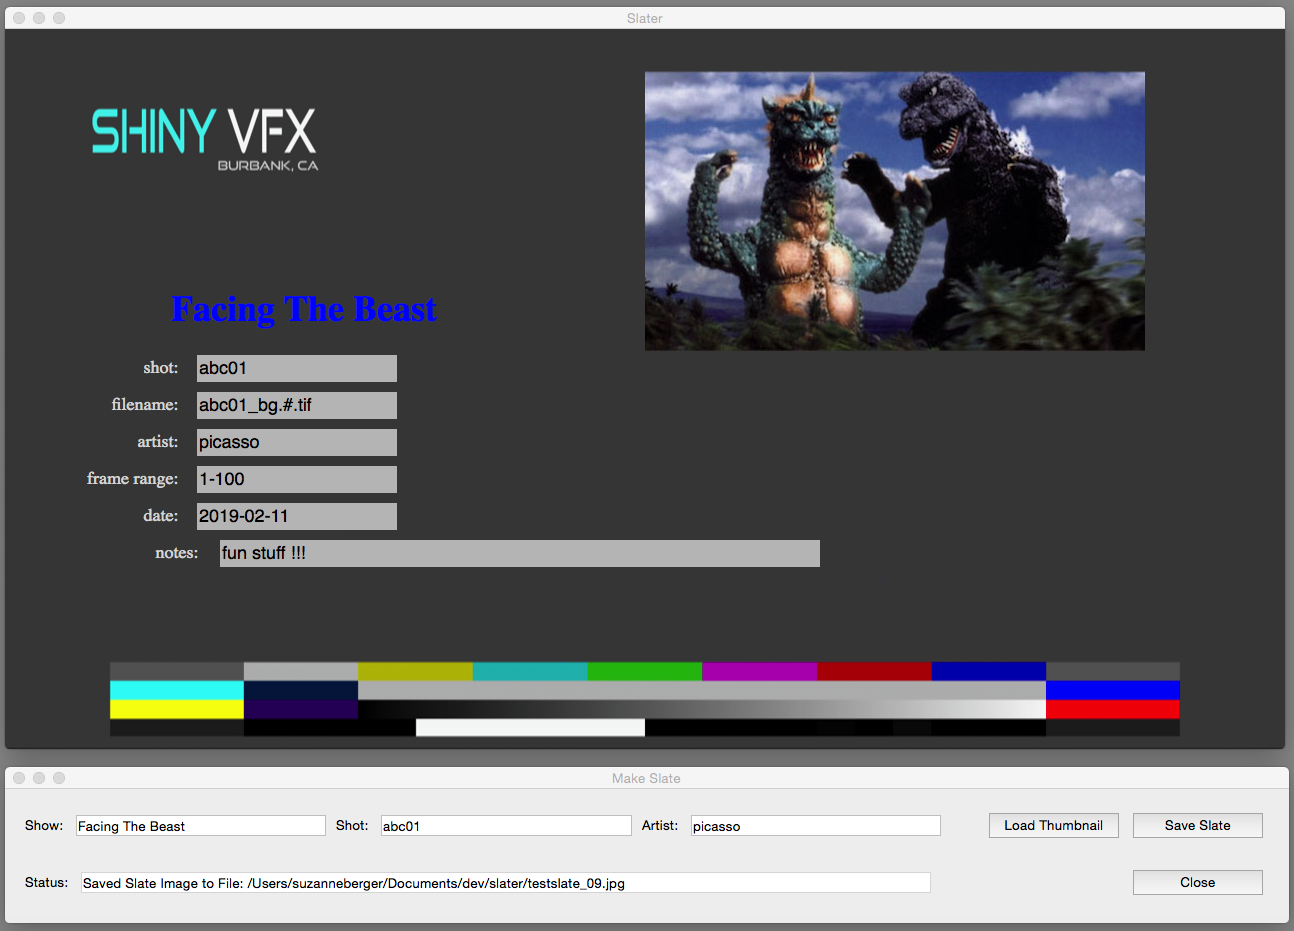
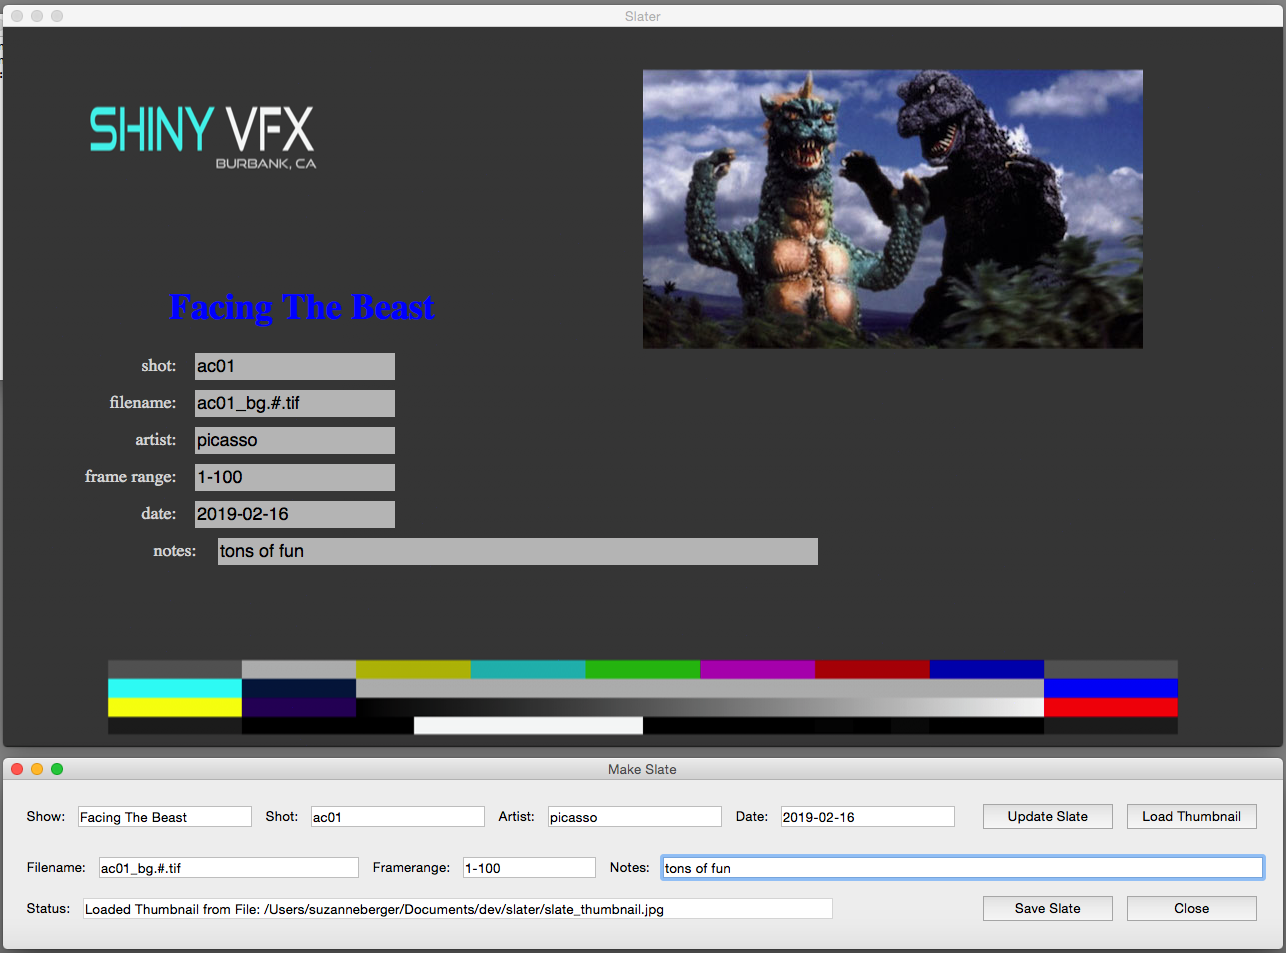
Improvements
1) Changed PROGPATH global to use __file__ attribute instead of hard-coding so editing this line is no longer required.

2) Added other Slater inputs to SlaterWin.

3) Added <Update Slate> button to send all inputs from SlaterWin into Slater as an alternative to using individual <Return> press for each entry.

diff --git a/slater.py b/slater.py
@@ -34,8 +34,9 @@ else:
     USERNAME = os.getenv("USER")
 
 # replace with appropriate to facilities packaging/release system
-PROGPATH = os.path.dirname(os.path.abspath(sys.argv[0]))
+PROGPATH = os.path.realpath(os.path.dirname(__file__))
 BGSLATE = os.path.join(PROGPATH,"bgslate.png")
+
 
 #########################################################
 # Slater
@@ -179,61 +180,92 @@ class SlaterWin(QtWidgets.QWidget):
     
         self.setStyleSheet("QPushButton {color: black; min-width: 100px; min-height: 35px;}")
         
-        # create show title, shot and artist labels and lineEdits for input into Slater widget
-        self.show_label = QtWidgets.QLabel("Show: ")
+        # create show title, shot and artist labels and lineEdits placed on top for input into Slater widget
+        self.show_label = QtWidgets.QLabel(" Show: ")
         self.show_lineEdit = QtWidgets.QLineEdit()
         if self.movie:
             self.show_lineEdit.setText(self.movie)
         
-        self.shot_label = QtWidgets.QLabel("Shot: ")
+        self.shot_label = QtWidgets.QLabel(" Shot: ")
         self.shot_lineEdit = QtWidgets.QLineEdit()
         if self.shot:
             self.shot_lineEdit.setText(self.shot)
         
-        self.artist_label = QtWidgets.QLabel("Artist: ")
+        self.artist_label = QtWidgets.QLabel(" Artist: ")
         self.artist_lineEdit = QtWidgets.QLineEdit(self.artist)
         
+        self.date_label = QtWidgets.QLabel(" Date: ")
+        self.date_lineEdit = QtWidgets.QLineEdit(str(date.today()))
         
         self.thumbnail_button = QtWidgets.QPushButton("Load Thumbnail")
-        self.save_button = QtWidgets.QPushButton("Save Slate")
+        self.update_button = QtWidgets.QPushButton("Update Slate")
         
-        slate_input_layout = QtWidgets.QHBoxLayout()
-        slate_input_layout.addWidget(self.show_label)
-        slate_input_layout.addWidget(self.show_lineEdit)
-        slate_input_layout.addWidget(self.shot_label)
-        slate_input_layout.addWidget(self.shot_lineEdit)
-        slate_input_layout.addWidget(self.artist_label)
-        slate_input_layout.addWidget(self.artist_lineEdit)
-        slate_input_layout.addSpacing(40)
-        slate_input_layout.addWidget(self.thumbnail_button)
-        slate_input_layout.addWidget(self.save_button)
+        slate_top_layout = QtWidgets.QHBoxLayout()
+        slate_top_layout.addWidget(self.show_label)
+        slate_top_layout.addWidget(self.show_lineEdit)
+        slate_top_layout.addWidget(self.shot_label)
+        slate_top_layout.addWidget(self.shot_lineEdit)
+        slate_top_layout.addWidget(self.artist_label)
+        slate_top_layout.addWidget(self.artist_lineEdit)
+        slate_top_layout.addWidget(self.date_label)
+        slate_top_layout.addWidget(self.date_lineEdit)
+        slate_top_layout.addSpacing(20)
+        slate_top_layout.addWidget(self.update_button)
+        slate_top_layout.addWidget(self.thumbnail_button)
+
+        # create widgets and layout to be placed in middle of window
+
+        self.filename_label = QtWidgets.QLabel(" Filename: ")
+        self.filename_lineEdit = QtWidgets.QLineEdit()
+        self.filename_lineEdit.setMinimumWidth(260)
+        self.framerange_label = QtWidgets.QLabel(" Framerange: ")
+        self.framerange_lineEdit = QtWidgets.QLineEdit()
+        self.notes_label = QtWidgets.QLabel(" Notes: ")
+        self.notes_lineEdit = QtWidgets.QLineEdit()
+        self.notes_lineEdit.setMinimumWidth(600)
+
+        slate_middle_layout = QtWidgets.QHBoxLayout()
+        slate_middle_layout.addWidget(self.filename_label)
+        slate_middle_layout.addWidget(self.filename_lineEdit)
+        slate_middle_layout.addWidget(self.framerange_label)
+        slate_middle_layout.addWidget(self.framerange_lineEdit)
+        slate_middle_layout.addWidget(self.notes_label)
+        slate_middle_layout.addWidget(self.notes_lineEdit)
 
         # create widgets and layout to be placed at bottom of window
-        status_label = QtWidgets.QLabel("Status: ")
+        status_label = QtWidgets.QLabel(" Status: ")
         self.status_lineEdit = QtWidgets.QLineEdit()
-        self.status_lineEdit.setMinimumWidth(850)
+        self.status_lineEdit.setMinimumWidth(750)
         self.status_lineEdit.setReadOnly(True)
+        self.save_button = QtWidgets.QPushButton("Save Slate")
         self.close_button = QtWidgets.QPushButton("Close")
         
         slate_bottom_layout = QtWidgets.QHBoxLayout()
         slate_bottom_layout.addWidget(status_label)
         slate_bottom_layout.addWidget(self.status_lineEdit)
         slate_bottom_layout.addStretch()
+        slate_bottom_layout.addWidget(self.save_button)
         slate_bottom_layout.addWidget(self.close_button)
 
         # add layouts to overall window layout
         slatewin_layout = QtWidgets.QVBoxLayout()
-        slatewin_layout.addLayout(slate_input_layout)
+        slatewin_layout.addLayout(slate_top_layout)
+        slatewin_layout.addLayout(slate_middle_layout)
         slatewin_layout.addLayout(slate_bottom_layout)
         self.setLayout(slatewin_layout)
         
         # connect signal to slots for updating slate
         self.thumbnail_button.clicked.connect(self.loadthumb)
+        self.update_button.clicked.connect(self.update_all)
         self.save_button.clicked.connect(self.saveslate)
         self.close_button.clicked.connect(self.close)
         self.show_lineEdit.returnPressed.connect(self.on_showEdit)
         self.shot_lineEdit.returnPressed.connect(self.on_shotEdit)
         self.artist_lineEdit.returnPressed.connect(self.on_artistEdit)
+        self.date_lineEdit.returnPressed.connect(self.on_dateEdit)
+        self.filename_lineEdit.returnPressed.connect(self.on_filenameEdit)
+        self.framerange_lineEdit.returnPressed.connect(self.on_framerangeEdit)
+        self.notes_lineEdit.returnPressed.connect(self.on_notesEdit)
 
         self.show()
         self.slateframe = Slater(movie=self.movie, shot=self.shot, artist=self.artist)
@@ -253,7 +285,17 @@ class SlaterWin(QtWidgets.QWidget):
                                                           PROGPATH,
                                                           "Image files (*.jpg *.png *.tif)")[0]
         self.slateframe.set_thumbnail(thumbfile)
-        self.status_lineEdit.setText("Loaded Thumbnail Image from File: %s" % thumbfile)
+        self.status_lineEdit.setText("Loaded Thumbnail from File: %s" % thumbfile)
+
+    def update_all(self):
+        """Update Slater with all entries by calling all slots connected to entry events"""
+        self.on_showEdit()
+        self.on_shotEdit()
+        self.on_artistEdit()
+        self.on_dateEdit()
+        self.on_filenameEdit()
+        self.on_framerangeEdit()
+        self.on_notesEdit()
 
     def saveslate(self):
         this_slate = self.slateframe.grab()
@@ -261,7 +303,7 @@ class SlaterWin(QtWidgets.QWidget):
                                                    PROGPATH,
                                                    "Images (*.jpg *.png *.tif)")[0]
         this_slate.save(slatefile)
-        self.status_lineEdit.setText("Saved Slate Image to File: %s" % slatefile)
+        self.status_lineEdit.setText("Saved Slate to File: %s" % slatefile)
 
     def on_showEdit(self):
         """Set new movie title in Slater widget's movie_label."""
@@ -277,6 +319,22 @@ class SlaterWin(QtWidgets.QWidget):
         """Set new artist name in Slater widget's artist_lineEdit."""
         self.artist = self.artist_lineEdit.text()
         self.slateframe.artist_lineEdit.setText(self.artist)
+
+    def on_dateEdit(self):
+        """Set new date in Slater widget's date_lineEdit"""
+        self.slateframe.date_lineEdit.setText(self.date_lineEdit.text())
+
+    def on_filenameEdit(self):
+        """Set filename in Slater widget's filename_lineEdit"""
+        self.slateframe.filename_lineEdit.setText(self.filename_lineEdit.text())
+
+    def on_framerangeEdit(self):
+        """Set frame range in Slater widget's framerange_lineEdit"""
+        self.slateframe.framerange_lineEdit.setText(self.framerange_lineEdit.text())
+
+    def on_notesEdit(self):
+        """Set notes in Slater widget's notes_lineEdit"""
+        self.slateframe.notes_lineEdit.setText(self.notes_lineEdit.text())
 
 
 ############################################################
